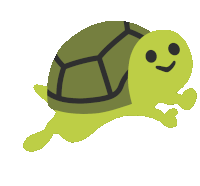
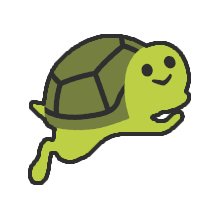
Improve turtle contrast and add color-blind mode hints.

Changed region(s): [[0.12, 0.1075, 0.99, 0.8602]]

diff --git a/public/index.html b/public/index.html
@@ -15,6 +15,95 @@
       user's mobile device or desktop. See https://developers.google.com/web/fundamentals/web-app-manifest/
     -->
     <link rel="manifest" href="%PUBLIC_URL%/manifest.json" />
+    <style>
+      .logo {
+        animation: turtleJumpFiveTimes linear 10s infinite;
+        background-image: url('%PUBLIC_URL%/res/img/turtle_1.png');
+        background-repeat: none;
+        background-position: center;
+        background-size: contain;
+      }
+
+      .logo:hover {
+        animation: turtleJump linear 0.4s infinite;
+      }
+
+      @keyframes turtleJumpFiveTimes {
+        0%,
+        6%,
+        12%,
+        18%,
+        24% {
+          background-image: url('%PUBLIC_URL%/res/img/turtle_1.png');
+        }
+
+        1%,
+        7%,
+        13%,
+        19%,
+        25% {
+          background-image: url('%PUBLIC_URL%/res/img/turtle_2.png');
+        }
+
+        2%,
+        8%,
+        14%,
+        20%,
+        26% {
+          background-image: url('%PUBLIC_URL%/res/img/turtle_3.png');
+        }
+
+        3%,
+        9%,
+        15%,
+        21%,
+        27% {
+          background-image: url('%PUBLIC_URL%/res/img/turtle_4.png');
+        }
+
+        4%,
+        10%,
+        16%,
+        22%,
+        28% {
+          background-image: url('%PUBLIC_URL%/res/img/turtle_5.png');
+        }
+
+        5%,
+        11%,
+        17%,
+        23%,
+        29% {
+          background-image: url('%PUBLIC_URL%/res/img/turtle_1.png');
+        }
+      }
+
+      @keyframes turtleJump {
+        0% {
+          background-image: url('%PUBLIC_URL%/res/img/turtle_1.png');
+        }
+
+        20% {
+          background-image: url('%PUBLIC_URL%/res/img/turtle_2.png');
+        }
+
+        40% {
+          background-image: url('%PUBLIC_URL%/res/img/turtle_3.png');
+        }
+
+        60% {
+          background-image: url('%PUBLIC_URL%/res/img/turtle_4.png');
+        }
+
+        80% {
+          background-image: url('%PUBLIC_URL%/res/img/turtle_5.png');
+        }
+
+        100% {
+          background-image: url('%PUBLIC_URL%/res/img/turtle_1.png');
+        }
+      }
+    </style>
     <!--
       Notice the use of %PUBLIC_URL% in the tags above.
       It will be replaced with the URL of the `public` folder during the build.

diff --git a/src/components/grid/Cell.tsx b/src/components/grid/Cell.tsx
@@ -1,7 +1,8 @@
 import { CharStatus } from '../../lib/statuses'
+import { Hint } from '../common/Hint'
 import { turtleFilter, turtleTransform } from '../../constants/filter'
 import classnames from 'classnames'
-import { letterToFrameIdx } from '../../constants/validGuesses'
+import { letterToFrameIdx, turdleId } from '../../constants/validGuesses'
 
 type Props = {
   value?: string
@@ -10,15 +11,15 @@ type Props = {
 
 export const Cell = ({ value, status }: Props) => {
   const divClasses = classnames(
-    'w-14 h-14 border-solid border-2 flex items-center justify-center mx-0.5 text-lg font-bold rounded dark:text-white',
+    'w-14 h-14 relative border-solid border-2 flex items-center justify-center mx-0.5 text-lg font-bold rounded dark:text-white',
     {
       'bg-white dark:bg-slate-900 border-slate-200 dark:border-slate-600':
         !status,
       'border-black dark:border-slate-100': value && !status,
       'bg-slate-400 dark:bg-slate-700 text-white border-slate-400 dark:border-slate-700':
         status === 'absent',
-      'bg-green-500 text-white border-green-500': status === 'correct',
-      'bg-yellow-500 dark:bg-yellow-700 text-white border-yellow-500 dark:border-yellow-700':
+      'bg-green-500 text-white border-green-600 dark:border-green-300': status === 'correct',
+      'bg-yellow-500 dark:bg-yellow-700 text-white border-yellow-600 dark:border-yellow-550':
         status === 'present',
       'cell-animation': !!value,
     }
@@ -26,7 +27,7 @@ export const Cell = ({ value, status }: Props) => {
 
   const imgClasses = classnames(
     {
-      'opacity-0': !value,
+      'hidden': !value,
     }
   )
 
@@ -38,6 +39,7 @@ export const Cell = ({ value, status }: Props) => {
   return <div className={divClasses}>
     <img src={'res/img/turtle_' + letterToFrameIdx(value) + '.png'}
       className={imgClasses}
-      style={imgStyles} alt={value} />
+      style={imgStyles} alt={turdleId(value)} />
+    <Hint value={value} />
   </div>
 }

diff --git a/src/constants/validGuesses.ts b/src/constants/validGuesses.ts
@@ -1,6 +1,8 @@
 export const NUM_FRAMES = 5
 export const NUM_COLORS = 5
 
+export const ColorCodes = ['W', 'B', 'P', 'R', 'G']
+
 export const KeyboardLetters = [
   'Q',
   'W',
@@ -38,7 +40,7 @@ export function letterToTurdle(letter?: string): string {
 export function turdleToLetter(turdle: string): string {
   const [fIdx, cIdx] = turdle.split('_')
   return KeyboardLetters[
-    parseInt(cIdx) * NUM_COLORS + (parseInt(fIdx) % NUM_FRAMES)
+    parseInt(cIdx) * NUM_FRAMES + (parseInt(fIdx) % NUM_COLORS)
   ]
 }
 
@@ -47,15 +49,22 @@ export function roundMultiple(x: number, y: number): number {
   return Math.ceil(x / y) * y
 }
 
+export function turdleId(value?: string): string {
+  return letterToFrameIdx(value) + letterToColorCode(value)
+}
+
 export function letterToFrameIdx(value?: string): number {
   const letterIdx = KeyboardLetters.indexOf(value || 'Q')
-  return ((letterIdx * NUM_COLORS) % KeyboardLetters.length) / NUM_COLORS + 1
+  return (letterIdx % NUM_COLORS) + 1
+}
+
+export function letterToColorCode(value?: string): string {
+  return ColorCodes[letterToColorIdx(value) - 1]
 }
 
 export function letterToColorIdx(value?: string): number {
   const letterIdx = KeyboardLetters.indexOf(value || 'Q')
-  const nearestM = roundMultiple(letterIdx + 1, NUM_FRAMES)
-  return nearestM / KeyboardLetters.length
+  return roundMultiple(letterIdx + 1, NUM_FRAMES) / NUM_FRAMES
 }
 
 function generateAllValidGuesses(): string[] {
@@ -74,7 +83,6 @@ function generateAllValidGuesses(): string[] {
     }
   }
   guesses = shuffle(guesses, xor(1))
-  console.log(guesses)
   return guesses
 }
 

diff --git a/src/components/modals/InfoModal.tsx b/src/components/modals/InfoModal.tsx
@@ -10,10 +10,10 @@ export const InfoModal = ({ isOpen, handleClose }: Props) => {
   return (
     <BaseModal title="How to play" isOpen={isOpen} handleClose={handleClose}>
       <p className="text-sm text-gray-500 dark:text-gray-300">
-        Guess the TURDLE animation sequence in 6 tries. <strong>The order of the
-          frames is always the same</strong> - only the color and the starting
-        frame can change. After each guess, the color of the tiles will change
-        to show how close your guess was to the sequence.
+        Guess the color and frames of the TURDLE animation sequence in 6 tries.
+        {' '}<strong>The order of the frames is always the same</strong> - only
+        the starting frame can change. After each guess, the color of the tiles
+        will change to show how close your guess was to the sequence.
       </p>
 
       <div className="flex justify-center mb-1 mt-4">
@@ -35,11 +35,11 @@ export const InfoModal = ({ isOpen, handleClose }: Props) => {
         <Cell value="Y" />
       </div>
       <p className="text-sm text-gray-500 dark:text-gray-300">
-        The <strong>Green Turtle</strong> is in the sequence but in the wrong spot.
+        The <strong>White Turtle</strong> is in the sequence but in the wrong spot.
       </p>
 
       <div className="flex justify-center mb-1 mt-4">
-        <Cell value="Q" />
+        <Cell value="X" />
         <Cell value="W" />
         <Cell value="D" />
         <Cell value="F" status="absent" />

diff --git a/src/components/common/Hint.tsx b/src/components/common/Hint.tsx
@@ -1,0 +1,33 @@
+import { turtleFilter, turtleTransform } from '../../constants/filter'
+import classnames from 'classnames'
+import { letterToFrameIdx, letterToColorCode, turdleId } from '../../constants/validGuesses'
+
+type Props = {
+  value?: string
+}
+
+const inColorBlindMode = true;
+
+export const Hint = ({ value }: Props) => {
+  const idClasses = classnames(
+    'absolute text-black px-1 opacity-70 bottom-0 right-0 bg-white rounded-lg leading-none text-xs select-none',
+    {
+      'hidden': !inColorBlindMode || !value || value.length > 1,
+    }
+  )
+
+  const colorClasses = classnames(
+    {
+      'text-gray-500': 'W' === letterToColorCode(value),
+      'text-purple-500': 'P' === letterToColorCode(value),
+      'text-red-500': 'R' === letterToColorCode(value),
+      'text-blue-500': 'B' === letterToColorCode(value),
+      'text-green-500': 'G' === letterToColorCode(value)
+    }
+  )
+
+  return <div className={idClasses}>
+    <span>{letterToFrameIdx(value)}</span>
+    <span className={colorClasses}>{letterToColorCode(value)}</span>
+  </div>
+}

diff --git a/src/components/keyboard/Key.tsx b/src/components/keyboard/Key.tsx
@@ -4,6 +4,7 @@ import { KeyValue } from '../../lib/keyboard'
 import { CharStatus } from '../../lib/statuses'
 import { turtleFilter, turtleTransform } from '../../constants/filter'
 import { letterToFrameIdx } from '../../constants/validGuesses'
+import { Hint } from '../common/Hint'
 
 type Props = {
   children?: ReactNode
@@ -21,7 +22,7 @@ export const Key = ({
   onClick,
 }: Props) => {
   const classes = classnames(
-    'flex items-center justify-center rounded mx-0.5 text-xs font-bold cursor-pointer select-none',
+    'flex relative items-center justify-center rounded mx-0.5 text-xs font-bold cursor-pointer select-none',
     {
       'bg-slate-200 hover:bg-slate-300 active:bg-slate-400': !status,
       'bg-slate-400 text-white': status === 'absent',
@@ -59,6 +60,7 @@ export const Key = ({
       <img src={'res/img/turtle_' + letterToFrameIdx(value) + '.png'}
         className={imgClasses}
         style={imgStyles} alt={value} />
+      <Hint value={value} />
     </button>
   )
 }

diff --git a/src/App.tsx b/src/App.tsx
@@ -12,7 +12,6 @@ import { AboutModal } from './components/modals/AboutModal'
 import { InfoModal } from './components/modals/InfoModal'
 import { StatsModal } from './components/modals/StatsModal'
 import {
-  WORDLE_TITLE,
   WIN_MESSAGES,
   GAME_COPIED_MESSAGE,
   ABOUT_GAME_MESSAGE,
@@ -169,9 +168,10 @@ function App() {
   return (
     <div className="py-8 max-w-7xl mx-auto sm:px-6 lg:px-8">
       <div className="flex w-80 mx-auto items-center mb-8 mt-12">
-        <h1 className="text-xl grow font-bold dark:text-white">
-          {WORDLE_TITLE}
-        </h1>
+        <div className="flex grow">
+          <h1 className="text-xl flex font-bold dark:text-white">Turdle</h1>
+          <div className="logo flex shrink-0 grow-0 ml-1 w-7 h-7"></div>
+        </div>
         <SunIcon
           className="h-6 w-6 cursor-pointer dark:stroke-white"
           onClick={() => handleDarkMode(!isDarkMode)}

diff --git a/src/constants/filter.ts b/src/constants/filter.ts
@@ -1,8 +1,9 @@
-import { letterToColorIdx } from './validGuesses'
+import { letterToColorIdx, KeyboardLetters, NUM_FRAMES } from './validGuesses'
 
 export function turtleFilter(value?: string): string {
-  const hue = letterToColorIdx(value) * 360
-  const effect = 'saturate(3) contrast(160%)'
+  const colorIdx = letterToColorIdx(value)
+  const hue = ((colorIdx * NUM_FRAMES) / KeyboardLetters.length) * 360
+  const effect = 'saturate(' + (colorIdx === 1 ? '0' : '1') + ') contrast(260%)'
   return 'hue-rotate(' + hue + 'deg) ' + effect
 }
 

diff --git a/src/index.css b/src/index.css
@@ -20,7 +20,3 @@
     transform: scale(1);
   }
 }
-
-iframe {
-  margin: 0 auto 30px auto;
-}
